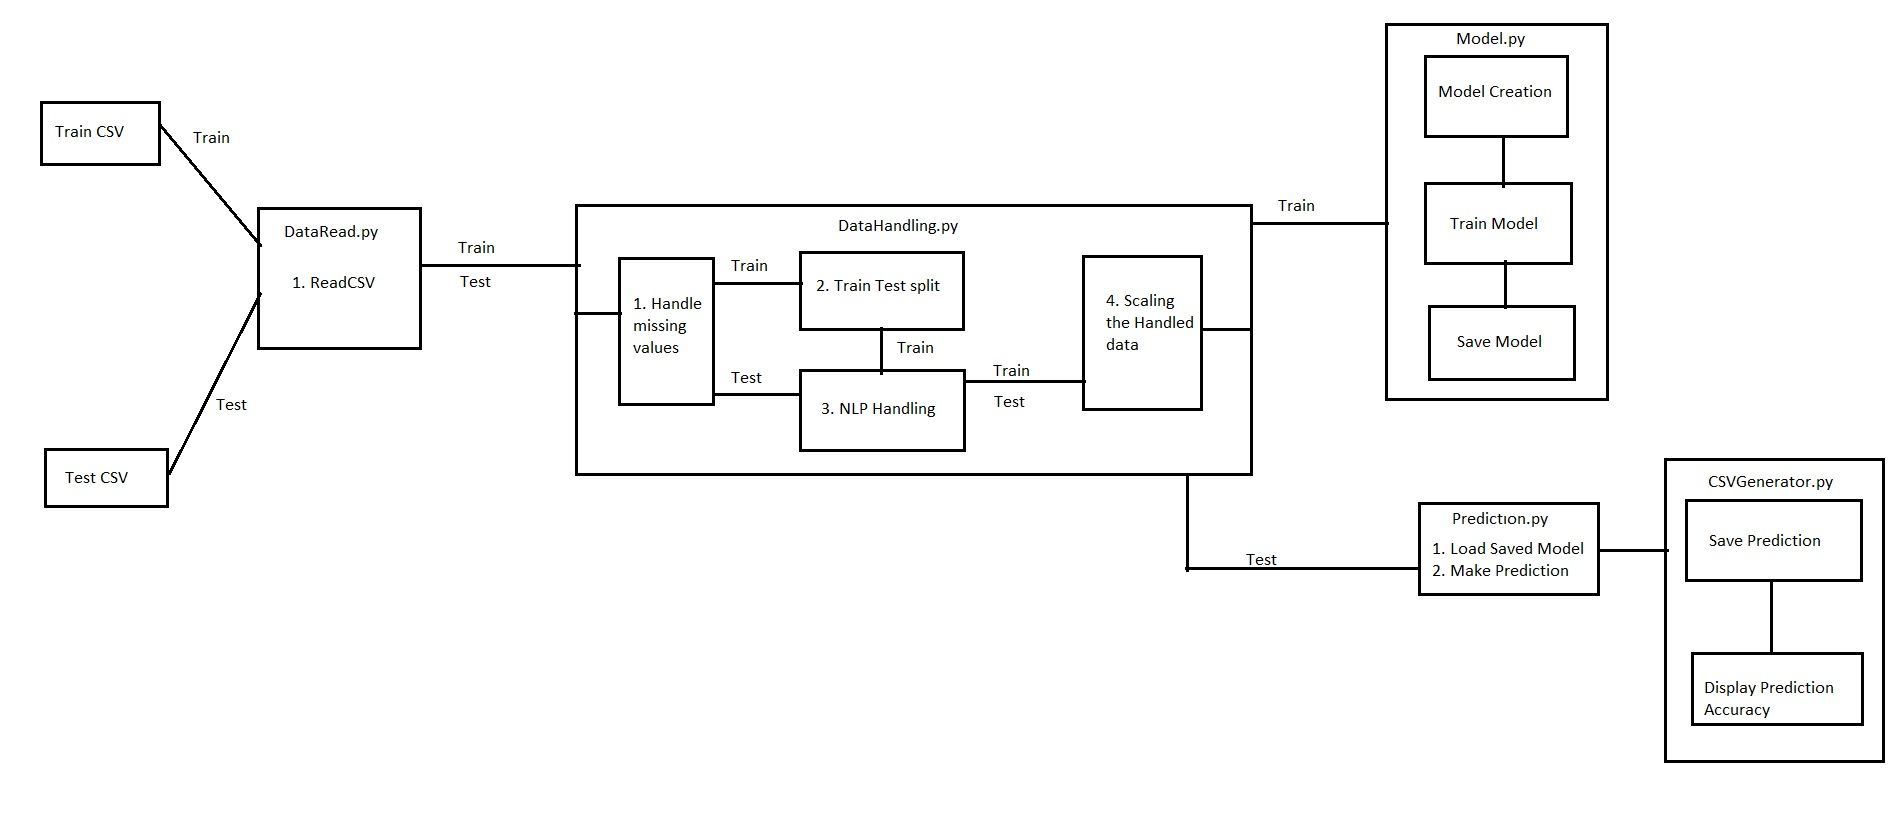
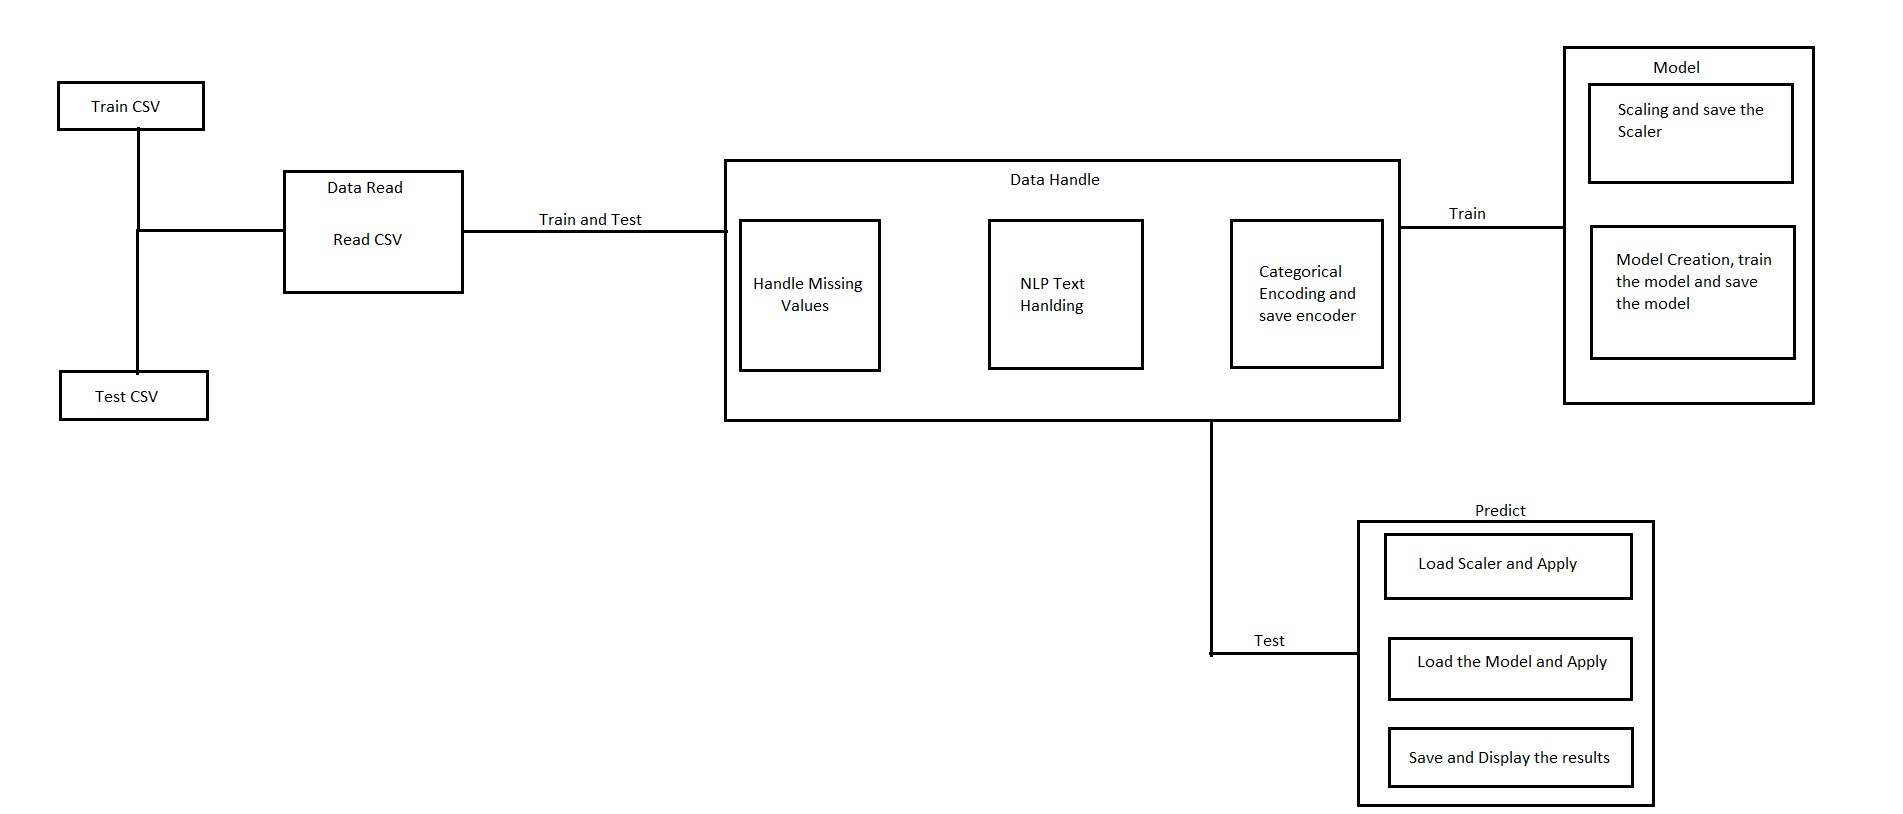
Changes in readme images.

diff --git a/README.md b/README.md
@@ -19,5 +19,9 @@ Similar to training we need to read the data using Data Read file and then handl
 ## Files and Functions
 
 ## How to run and test
-
+### Train
+![](images/Train1.jpg)
+![](images/Train2.jpg)
+### Test
+![](images/Test.jpg)
 ## libraries used
